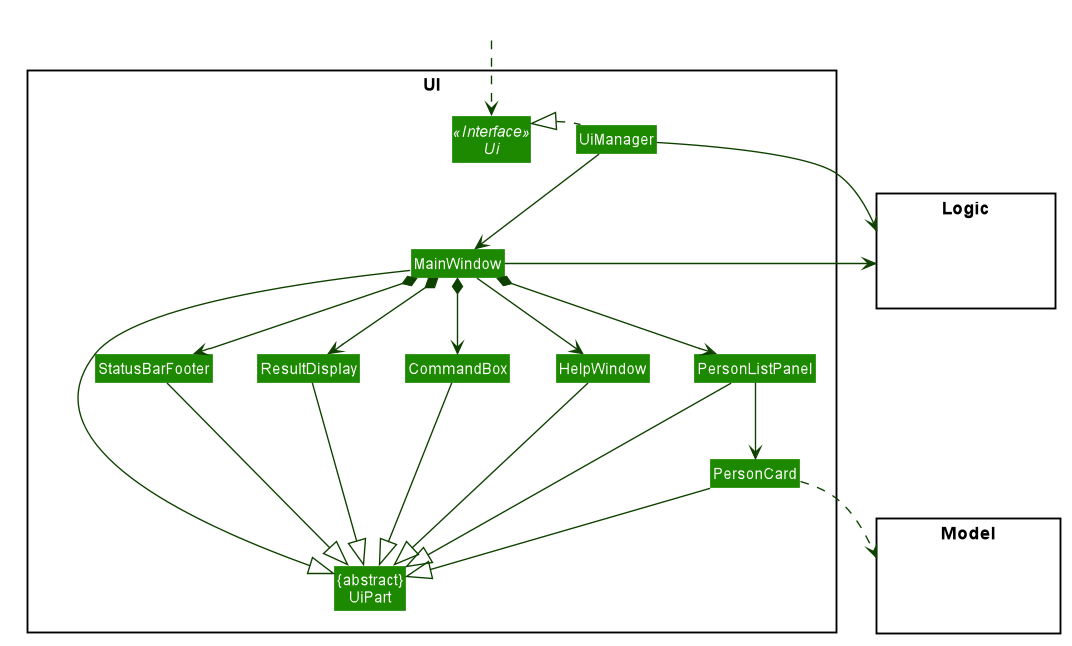
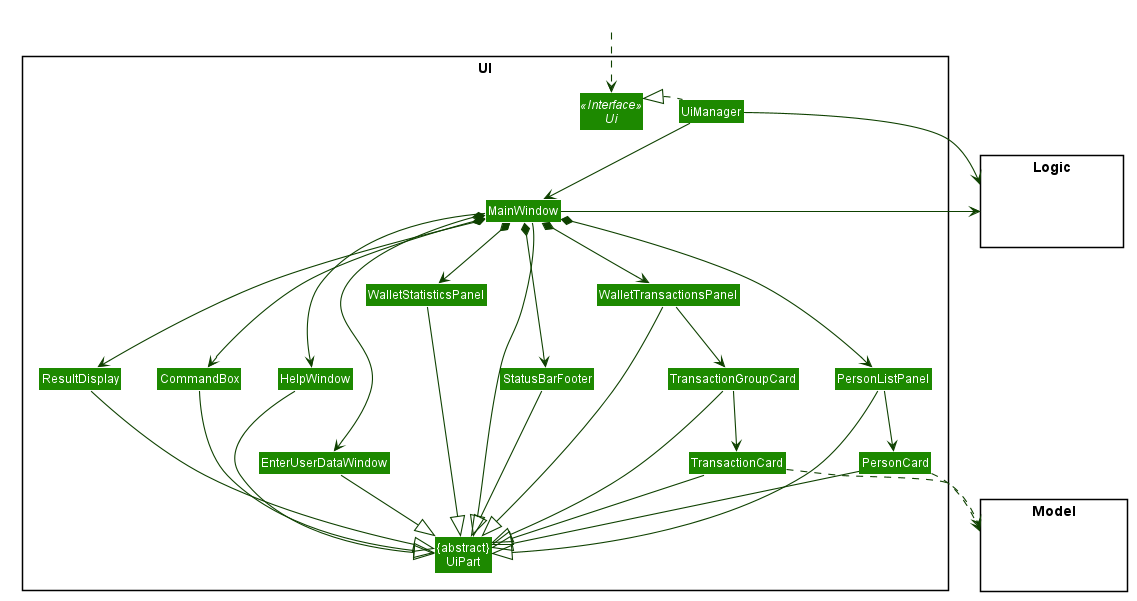
Rebuild pages at 3cfa7654b0ad160611fbcfa768ffd767cedea81e

diff --git a/DeveloperGuide.html b/DeveloperGuide.html
@@ -272,13 +272,13 @@ The following class plays an important role at the architecture level:</p>
 </div>
 <div class="paragraph">
 <p><strong>API</strong> : <a href="https://github.com/AY1920S2-CS2103T-W12-3/main/tree/master/src/main/java/seedu/address/ui/Ui.java"><code>Ui.java</code></a>
-The UI consists of a <code>MainWindow</code> that is made up of parts e.g.<code>CommandBox</code>, <code>ResultDisplay</code>, <code>PersonListPanel</code>, <code>StatusBarFooter</code> etc. All these, including the <code>MainWindow</code>, inherit from the abstract <code>UiPart</code> class.</p>
+The UI consists of a <code>MainWindow</code> that is made up of parts e.g.<code>CommandBox</code>, <code>ResultDisplay</code>, <code>PersonListPanel</code>, <code>StatusBarFooter</code>, <code>WalletTransactionPanel</code>, <code>WalletStatisticsPanel</code> etc. All these, including the <code>MainWindow</code>, inherit from the abstract <code>UiPart</code> class.</p>
 </div>
 <div class="paragraph">
-<p>The <code>UI</code> component uses JavaFx UI framework. The layout of these UI parts are defined in matching <code>.fxml</code> files that are in the <code>src/main/resources/view</code> folder. For example, the layout of the <a href="https://github.com/AY1920S2-CS2103T-W12-3/main/tree/master/src/main/java/seedu/address/ui/MainWindow.java"><code>MainWindow</code></a> is specified in <a href="https://github.com/AY1920S2-CS2103T-W12-3/main/tree/master/src/main/resources/view/MainWindow.fxml"><code>MainWindow.fxml</code></a></p>
+<p>The <code>Ui</code> component uses JavaFx UI framework. The layout of these UI parts are defined in matching <code>.fxml</code> files that are in the <code>src/main/resources/view</code> folder. For example, the layout of the <a href="https://github.com/AY1920S2-CS2103T-W12-3/main/tree/master/src/main/java/seedu/address/ui/MainWindow.java"><code>MainWindow</code></a> is specified in <a href="https://github.com/AY1920S2-CS2103T-W12-3/main/tree/master/src/main/resources/view/MainWindow.fxml"><code>MainWindow.fxml</code></a></p>
 </div>
 <div class="paragraph">
-<p>The <code>UI</code> component,</p>
+<p>The <code>Ui</code> component,</p>
 </div>
 <div class="ulist">
 <ul>
@@ -307,18 +307,52 @@ The UI consists of a <code>MainWindow</code> that is made up of parts e.g.<code>
 <ol class="arabic">
 <li>
 <p><code>Logic</code> uses the <code>SharkieParser</code> class to parse the user command.</p>
+<div class="ulist">
+<ul>
+<li>
+<p><code>SharkieParser</code> will check the command entered against a pattern defined in <code>SharkieParser</code>.</p>
+</li>
+<li>
+<p>It refers to <code>CliPrefix</code> to determine whether the command entered is a <code>people</code> related command, or a <code>wallet</code> related command.</p>
+</li>
+<li>
+<p>If the command entered passes these checks, it then parses the command using the respective <code>XYZCommandParser</code> to retrieve the command to be executed.</p>
+</li>
+</ul>
+</div>
 </li>
 <li>
 <p>This results in a <code>Command</code> object which is executed by the <code>LogicManager</code>.</p>
+<div class="ulist">
+<ul>
+<li>
+<p>Each command has its own <code>XYZCommand</code> that inherits from <code>Command</code>, implementing different actions to be executed.</p>
+</li>
+</ul>
+</div>
 </li>
 <li>
-<p>The command execution can affect the <code>Model</code> (e.g. adding a person).</p>
+<p>The command execution can affect the <code>Model</code> (e.g. adding a person, adding a transaction, filtering a list of transactions, reminders etc.).</p>
 </li>
 <li>
 <p>The result of the command execution is encapsulated as a <code>CommandResult</code> object which is passed back to the <code>Ui</code>.</p>
+<div class="ulist">
+<ul>
+<li>
+<p>The <code>Ui</code> processes the <code>CommandResult</code> and outputs the information to the <code>ResultDisplay</code> class.</p>
+</li>
+</ul>
+</div>
 </li>
 <li>
 <p>In addition, the <code>CommandResult</code> object can also instruct the <code>Ui</code> to perform certain actions, such as displaying help to the user.</p>
+<div class="ulist">
+<ul>
+<li>
+<p>Other <code>Ui</code> components are also updated on the successful obtaining of a <code>CommandResult</code> by <code>Ui</code>.</p>
+</li>
+</ul>
+</div>
 </li>
 </ol>
 </div>
@@ -1085,6 +1119,9 @@ the lifeline reaches the end of diagram.
 <li>
 <p>If a <code>Budget</code> with the same arguments given already exists, it will be overwritten by the one given.</p>
 </li>
+<li>
+<p>A <code>CommandResult</code> is returned at the end of the execution.</p>
+</li>
 </ol>
 </div>
 <div class="paragraph">
@@ -1255,11 +1292,11 @@ the lifeline reaches the end of diagram.
 <div class="paragraph">
 <p>Priorities: High (must have) - <code>* * *</code>, Medium (nice to have) - <code>* *</code>, Low (unlikely to have) - <code>*</code></p>
 </div>
-<table class="tableblock frame-all grid-all" style="width: 59%;">
+<table class="tableblock frame-all grid-all spread">
 <colgroup>
-<col style="width: 22%;">
-<col style="width: 23%;">
-<col style="width: 25%;">
+<col style="width: 10%;">
+<col style="width: 30%;">
+<col style="width: 30%;">
 <col style="width: 30%;">
 </colgroup>
 <thead>
@@ -2159,9 +2196,17 @@ until the details keyed in by the user is valid.</p>
 <dd>
 <p>A measure of how strongly-related and focused the responsibilities of a component are</p>
 </dd>
+<dt class="hdlist1"><a id="debt"></a> Debt</dt>
+<dd>
+<p>The amount of money which the user owes a person in the address book.</p>
+</dd>
 <dt class="hdlist1"><a id="extensions"></a> Extensions</dt>
 <dd>
 <p>"Add-on"s to MSS that describe exceptional/alternative flow of events.</p>
+</dd>
+<dt class="hdlist1"><a id="loan"></a> Loan</dt>
+<dd>
+<p>The amount of money which the user lends to a person in the address book.</p>
 </dd>
 <dt class="hdlist1"><a id="mainstream-os"></a> Mainstream OS</dt>
 <dd>
@@ -2182,14 +2227,6 @@ until the details keyed in by the user is valid.</p>
 <dt class="hdlist1"><a id="wallet"></a> Wallet</dt>
 <dd>
 <p>Sharkie&#8217;s wallet, that holds information pertaining to the user&#8217;s expenditure and income</p>
-</dd>
-<dt class="hdlist1"><a id="debt"></a> Debt</dt>
-<dd>
-<p>The amount of money which the user owes a person in the address book.</p>
-</dd>
-<dt class="hdlist1"><a id="loan"></a> Loan</dt>
-<dd>
-<p>The amount of money which the user lends to a person in the address book.</p>
 </dd>
 </dl>
 </div>
@@ -2542,6 +2579,151 @@ Expected: Same as previous.</p>
 </div>
 <div class="sect2">
 <h3 id="manual-testing-on-wallet-tab"><a class="link" href="#manual-testing-on-wallet-tab">G.2. Manual Testing on Wallet Tab</a></h3>
+<div class="olist arabic">
+<ol class="arabic">
+<li>
+<p>Recording an expense</p>
+<div class="olist loweralpha">
+<ol class="loweralpha" type="a">
+<li>
+<p>Prerequisites: None.</p>
+</li>
+<li>
+<p>Test case: <code>wallet expense n/Meal $/3.50</code><br>
+Expected: An expense named <em>Meal</em> with <em>$3.50</em> with default tag <em>Misc</em> recorded under the current date is added to the transaction list. The statistics panel will also update with the expense entered.</p>
+</li>
+<li>
+<p>Test case: <code>wallet expense n/Meal $/3.50 d/02/02/2020</code><br>
+Expected: An expense named <em>Meal</em> with <em>$3.50</em> with default tag <em>Misc</em> recorded under the date <em>02 FEB 2020</em> is added to the transaction list. The statistics panel will not update with this expense.</p>
+</li>
+<li>
+<p>Test case: <code>wallet expense n/Meal $/3.50 t/Food</code><br>
+Expected: An expense named <em>Meal</em> with <em>$3.50</em> with tag <em>Food</em> recorded under the current date is added to the transaction list. The statistic panel will also update with the expense entered, under the custom tag given.</p>
+</li>
+<li>
+<p>Test case: <code>wallet expense n/Meal $/asdf</code>
+Expected: The expense is not recorded. Error details shown in result display.</p>
+</li>
+<li>
+<p>Other incorrect expense commands to try:</p>
+<div class="ulist">
+<ul>
+<li>
+<p><code>wallet expense</code>,</p>
+</li>
+<li>
+<p><code>wallet expense 1</code>,</p>
+</li>
+<li>
+<p><code>wallet expense $/3.50</code>,</p>
+</li>
+<li>
+<p><code>wallet expense n/Meal</code></p>
+</li>
+</ul>
+</div>
+</li>
+</ol>
+</div>
+</li>
+<li>
+<p>Recording an income</p>
+<div class="olist loweralpha">
+<ol class="loweralpha" type="a">
+<li>
+<p>Prerequisites: None.</p>
+</li>
+<li>
+<p>Test case: <code>wallet income n/Teaching Assistant Job $/100</code><br>
+Expected: An expense named <em>Teaching Assistant Job</em> with <em>$100.00</em> with default tag <em>Misc</em> recorded under the current date is added to the transaction list.</p>
+</li>
+<li>
+<p>Test case: <code>wallet income n/Teaching Assistant Job $/100 d/02/02/2020</code><br>
+Expected: An expense named <em>Teaching Assistant Job</em> with <em>$100.00</em> with default tag <em>Misc</em> recorded under the date <em>02 FEB 2020</em> is added to the transaction list.</p>
+</li>
+<li>
+<p>Test case: <code>wallet income n/Teaching Assistant Job $/100 t/Job</code><br>
+Expected: An expense named <em>Teaching Assistant Job</em> with <em>$100.00</em> with tag <em>Job</em> recorded under the current date is added to the transaction list.</p>
+</li>
+<li>
+<p>Test case: <code>wallet income n/Teaching Assistant Job $/asdf</code>
+Expected: The income is not recorded. Error details shown in result display.</p>
+</li>
+<li>
+<p>Other incorrect expense commands to try:</p>
+<div class="ulist">
+<ul>
+<li>
+<p><code>wallet income</code>,</p>
+</li>
+<li>
+<p><code>wallet income 1</code>,</p>
+</li>
+<li>
+<p><code>wallet income $/100</code>,</p>
+</li>
+<li>
+<p><code>wallet income n/Teaching Assistant Job</code></p>
+</li>
+</ul>
+</div>
+</li>
+</ol>
+</div>
+</li>
+<li>
+<p>Setting a budget</p>
+<div class="olist loweralpha">
+<ol class="loweralpha" type="a">
+<li>
+<p>Prerequisites: None.</p>
+</li>
+<li>
+<p>Test case: <code>wallet budget $/800</code><br>
+Expected: A budget of <em>$800</em> is set as the default budget for Sharkie. The UI should update to display your total expenditure over the set budget, assuming you have no budget set for the current month.</p>
+</li>
+<li>
+<p>Test case: <code>wallet budget $/800 m/02 y/2020</code><br>
+Expected: A budget of <em>$800</em> is set as the budget for FEB 2020. The UI should update to display the total expenditure over the set budget if the current date is within the month you have selected. It will override the default budget set.</p>
+</li>
+<li>
+<p>Test case: <code>wallet budget $/0</code><br>
+Expected: A budget of <em>$0</em> is set as the default budget. Sharkie will assume that there is no budget set as default, and the UI will reflect this.</p>
+</li>
+<li>
+<p>Test case: <code>wallet budget $/asdf</code><br>
+Expected: The budget will not be set. Error details will show in the result display.</p>
+</li>
+<li>
+<p>Other incorrect budget commands to try:</p>
+<div class="ulist">
+<ul>
+<li>
+<p><code>wallet budget</code>,</p>
+</li>
+<li>
+<p><code>wallet budget 1</code>,</p>
+</li>
+<li>
+<p><code>wallet budget $/800 m/02</code>,</p>
+</li>
+<li>
+<p><code>wallet budget $/800 y/2020</code>,</p>
+</li>
+<li>
+<p><code>wallet budget $/800 m/a y/b</code>,</p>
+</li>
+<li>
+<p><code>wallet budget $/-800</code></p>
+</li>
+</ul>
+</div>
+</li>
+</ol>
+</div>
+</li>
+</ol>
+</div>
 <div class="sect3">
 <h4 id="listing-all-transactions"><a class="link" href="#listing-all-transactions">G.2.1. Listing all transactions</a></h4>
 <div class="olist arabic">
@@ -3433,4 +3615,4 @@ simply delete <strong>data/addressbook.json</strong>.
 <p><em>{ to be added }</em></p>
 </div>
 </div>
-</div></div><div id="footer"><div class="container"><div id="footer-text">Last updated 2020-04-07 04:53:04 UTC</div></div></div></body></html>
+</div></div><div id="footer"><div class="container"><div id="footer-text">Last updated 2020-04-07 05:03:32 UTC</div></div></div></body></html>

diff --git a/team/gracegrape.html b/team/gracegrape.html
@@ -786,11 +786,11 @@ or <code>wallet find t/&lt;keyword&gt; [&lt;keyword&gt; &#8230;&#8203;]</code></
 <div class="paragraph">
 <p>Priorities: High (must have) - <code>* * *</code>, Medium (nice to have) - <code>* *</code>, Low (unlikely to have) - <code>*</code></p>
 </div>
-<table class="tableblock frame-all grid-all" style="width: 59%;">
+<table class="tableblock frame-all grid-all spread">
 <colgroup>
-<col style="width: 22%;">
-<col style="width: 23%;">
-<col style="width: 25%;">
+<col style="width: 10%;">
+<col style="width: 30%;">
+<col style="width: 30%;">
 <col style="width: 30%;">
 </colgroup>
 <thead>
@@ -1377,4 +1377,4 @@ Expected: All transactions and budget data in wallet is deleted.</p>
 <p><em>{Optionally, you may include other projects in your portfolio.}</em></p>
 </div>
 </div>
-</div></div><div id="footer"><div class="container"><div id="footer-text">Last updated 2020-04-07 04:53:04 UTC</div></div></div></body></html>
+</div></div><div id="footer"><div class="container"><div id="footer-text">Last updated 2020-04-07 05:03:32 UTC</div></div></div></body></html>

diff --git a/team/jumpcutfindo.html b/team/jumpcutfindo.html
@@ -691,6 +691,9 @@ a <code>Description</code>, an <code>Amount</code>, a <code>Date</code> and a <c
 <li>
 <p>If a <code>Budget</code> with the same arguments given already exists, it will be overwritten by the one given.</p>
 </li>
+<li>
+<p>A <code>CommandResult</code> is returned at the end of the execution.</p>
+</li>
 </ol>
 </div>
 <div class="paragraph">
@@ -742,4 +745,4 @@ a <code>Description</code>, an <code>Amount</code>, a <code>Date</code> and a <c
 </div>
 </div>
 </div>
-</div></div><div id="footer"><div class="container"><div id="footer-text">Last updated 2020-04-07 04:53:04 UTC</div></div></div></body></html>
+</div></div><div id="footer"><div class="container"><div id="footer-text">Last updated 2020-04-07 05:03:32 UTC</div></div></div></body></html>

diff --git a/tutorials/RemovingFields.html b/tutorials/RemovingFields.html
@@ -175,4 +175,4 @@ While keeping the <code>address</code> field in the json files does not cause th
 <p>You can go through each individual <code>json</code> file and manually remove the <code>address</code> field.</p>
 </div>
 </div>
-</div></div><div id="footer"><div class="container"><div id="footer-text">Last updated 2020-04-07 04:53:04 UTC</div></div></div></body></html>
+</div></div><div id="footer"><div class="container"><div id="footer-text">Last updated 2020-04-07 05:03:32 UTC</div></div></div></body></html>

diff --git a/Testing.html b/Testing.html
@@ -90,4 +90,4 @@ e.g. <code>seedu.address.logic.LogicManagerTest</code></p>
 <div class="title">Figure 1. <code>Accessibility</code> permission is granted to <code>IntelliJ IDEA</code></div>
 </div>
 </div>
-</div></div><div id="footer"><div class="container"><div id="footer-text">Last updated 2020-04-07 04:53:04 UTC</div></div></div></body></html>
+</div></div><div id="footer"><div class="container"><div id="footer-text">Last updated 2020-04-07 05:03:32 UTC</div></div></div></body></html>

diff --git a/tutorials/AddRemark.html b/tutorials/AddRemark.html
@@ -616,4 +616,4 @@ In this case, <code>CommandTestUtil#assertCommandSuccess</code> is the best fit 
 <p>This concludes the tutorial for adding a new <code>Command</code> to AddressBook.</p>
 </div>
 </div>
-</div></div><div id="footer"><div class="container"><div id="footer-text">Last updated 2020-04-07 04:53:04 UTC</div></div></div></body></html>
+</div></div><div id="footer"><div class="container"><div id="footer-text">Last updated 2020-04-07 05:03:32 UTC</div></div></div></body></html>

diff --git a/UserGuide.html b/UserGuide.html
@@ -2550,4 +2550,4 @@ or <mark><code>people find t/&lt;keyword&gt; [&lt;keyword&gt;&#8230;&#8203;]</co
 </div>
 </div>
 </div>
-</div></div><div id="footer"><div class="container"><div id="footer-text">Last updated 2020-04-07 04:53:04 UTC</div></div></div></body></html>
+</div></div><div id="footer"><div class="container"><div id="footer-text">Last updated 2020-04-07 05:03:32 UTC</div></div></div></body></html>

diff --git a/team/syinyichen.html b/team/syinyichen.html
@@ -2178,4 +2178,4 @@ Expected: A reminder is sent everyone, who has unsettled loan. A carbon copy (CC
 </div>
 </div>
 </div>
-</div></div><div id="footer"><div class="container"><div id="footer-text">Last updated 2020-04-07 04:53:04 UTC</div></div></div></body></html>
+</div></div><div id="footer"><div class="container"><div id="footer-text">Last updated 2020-04-07 05:03:32 UTC</div></div></div></body></html>

diff --git a/SettingUp.html b/SettingUp.html
@@ -180,4 +180,4 @@ Having both Travis and AppVeyor ensures your App works on both Unix-based platfo
 </div>
 </div>
 </div>
-</div></div><div id="footer"><div class="container"><div id="footer-text">Last updated 2020-04-07 04:53:04 UTC</div></div></div></body></html>
+</div></div><div id="footer"><div class="container"><div id="footer-text">Last updated 2020-04-07 05:03:32 UTC</div></div></div></body></html>

diff --git a/UsingCoveralls.html b/UsingCoveralls.html
@@ -111,4 +111,4 @@ If you have not set up Travis CI, see <a href="UsingTravis.html">UsingTravis.ado
 </ol>
 </div>
 </div>
-</div></div><div id="footer"><div class="container"><div id="footer-text">Last updated 2020-04-07 04:53:04 UTC</div></div></div></body></html>
+</div></div><div id="footer"><div class="container"><div id="footer-text">Last updated 2020-04-07 05:03:32 UTC</div></div></div></body></html>

diff --git a/UsingGradle.html b/UsingGradle.html
@@ -228,4 +228,4 @@ See <code>build.gradle</code> &#8594; <code>allprojects</code> &#8594; <code>dep
 </ul>
 </div>
 </div>
-</div></div><div id="footer"><div class="container"><div id="footer-text">Last updated 2020-04-07 04:53:04 UTC</div></div></div></body></html>
+</div></div><div id="footer"><div class="container"><div id="footer-text">Last updated 2020-04-07 05:03:32 UTC</div></div></div></body></html>

diff --git a/UsingNetlify.html b/UsingNetlify.html
@@ -138,4 +138,4 @@ The publish directory is the directory in which the built HTML documentation res
 </ol>
 </div>
 </div>
-</div></div><div id="footer"><div class="container"><div id="footer-text">Last updated 2020-04-07 04:53:04 UTC</div></div></div></body></html>
+</div></div><div id="footer"><div class="container"><div id="footer-text">Last updated 2020-04-07 05:03:32 UTC</div></div></div></body></html>
